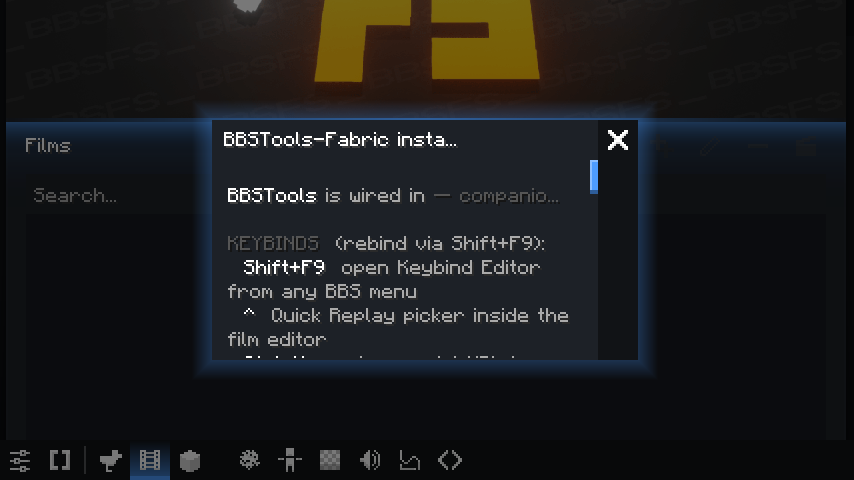
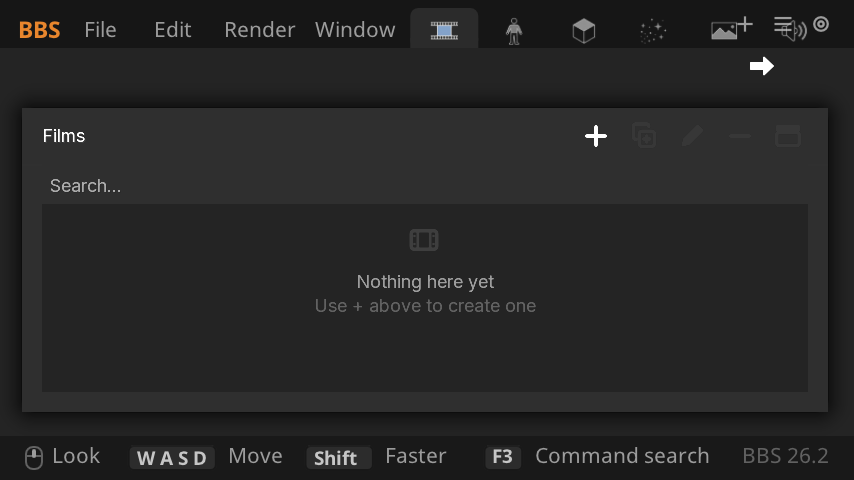
Test: carry the existing deterministic 26.2 dashboard fixture
The older committed reference captured a pre-26.2 installation popup. Restore the already existing 26.2 fixture and reference from the earlier performance worktree, control only the private fixture announcement and animated arrow phase, and retain exact comparison. The original fixture failed; the restored fixture passed runClientGameTest with its unchanged reference.

diff --git a/src/gametest/java/com/afrobama/bbstools/gametest/BBSClientGameTest.java b/src/gametest/java/com/afrobama/bbstools/gametest/BBSClientGameTest.java
@@ -92,7 +92,19 @@ public class BBSClientGameTest implements FabricClientGameTest {
 			// prueft er nur, ob Vanilla eine Welt zeichnet -- das sagt ueber unseren
 			// Editor nichts. UIScreen ist die Screen-Huelle, UIDashboard das Menue darin;
 			// setScreen ist der von Fabric vorgesehene Weg und umgeht jede Tastensimulation.
-			context.setScreen(() -> new UIScreen(Component.empty(), new UIDashboard()));
+			context.setScreen(() ->
+			{
+				/* The fixture compares the editor, not the installation's one-time announcement.
+				 * Fabric runs this in its private clientGameTest directory. */
+				com.afrobama.bbstools.client.dashboard.AnnouncementGate.markShown();
+
+				if (com.afrobama.bbstools.client.dashboard.AnnouncementGate.shouldShow())
+				{
+					throw new AssertionError("Could not prepare the test-only announcement state");
+				}
+
+				return new UIScreen(Component.empty(), new StillDashboard());
+			});
 
 			// Das Dashboard baut seine Panels erst im ersten Zeichendurchlauf auf. Ohne
 			// Wartezeit faengt der Screenshot ein halb aufgebautes Fenster ein und der
@@ -100,6 +112,49 @@ public class BBSClientGameTest implements FabricClientGameTest {
 			context.waitTicks(20);
 
 			pruefe(context, "bbs-dashboard");
+		}
+	}
+
+	/** Fix the native empty-panel arrow's animation phase only inside the private fixture. */
+	private static final class StillDashboard extends UIDashboard
+	{
+		private final java.lang.reflect.Field clock;
+
+		private StillDashboard()
+		{
+			try
+			{
+				this.clock = mchorse.bbs_mod.ui.framework.UIContext.class.getDeclaredField("tick");
+				this.clock.setAccessible(true);
+			}
+			catch (ReflectiveOperationException failure)
+			{
+				throw new AssertionError("Cannot control the test UI clock", failure);
+			}
+		}
+
+		@Override
+		public void renderMenu(mchorse.bbs_mod.ui.framework.UIRenderingContext rendering, int mouseX, int mouseY)
+		{
+			long tick = this.context.getTick();
+			float transition = this.context.getTransition();
+
+			try
+			{
+				this.clock.setLong(this.context, 0L);
+				this.context.setTransition(0F);
+				super.renderMenu(rendering, mouseX, mouseY);
+			}
+			catch (IllegalAccessException failure)
+			{
+				throw new AssertionError("Cannot set the test UI clock", failure);
+			}
+			finally
+			{
+				try { this.clock.setLong(this.context, tick); }
+				catch (IllegalAccessException failure) { throw new AssertionError(failure); }
+				this.context.setTransition(transition);
+			}
 		}
 	}
 
@@ -113,6 +168,7 @@ public class BBSClientGameTest implements FabricClientGameTest {
 	 */
 	private static void pruefe(ClientGameTestContext context, String name) {
 		TestScreenshotComparisonOptions optionen = TestScreenshotComparisonOptions.of(name)
+			.saveWithFileName(name + "-compared")
 			.withGrayscale()
 			.withAlgorithm(TestScreenshotComparisonAlgorithm.exact());
 
